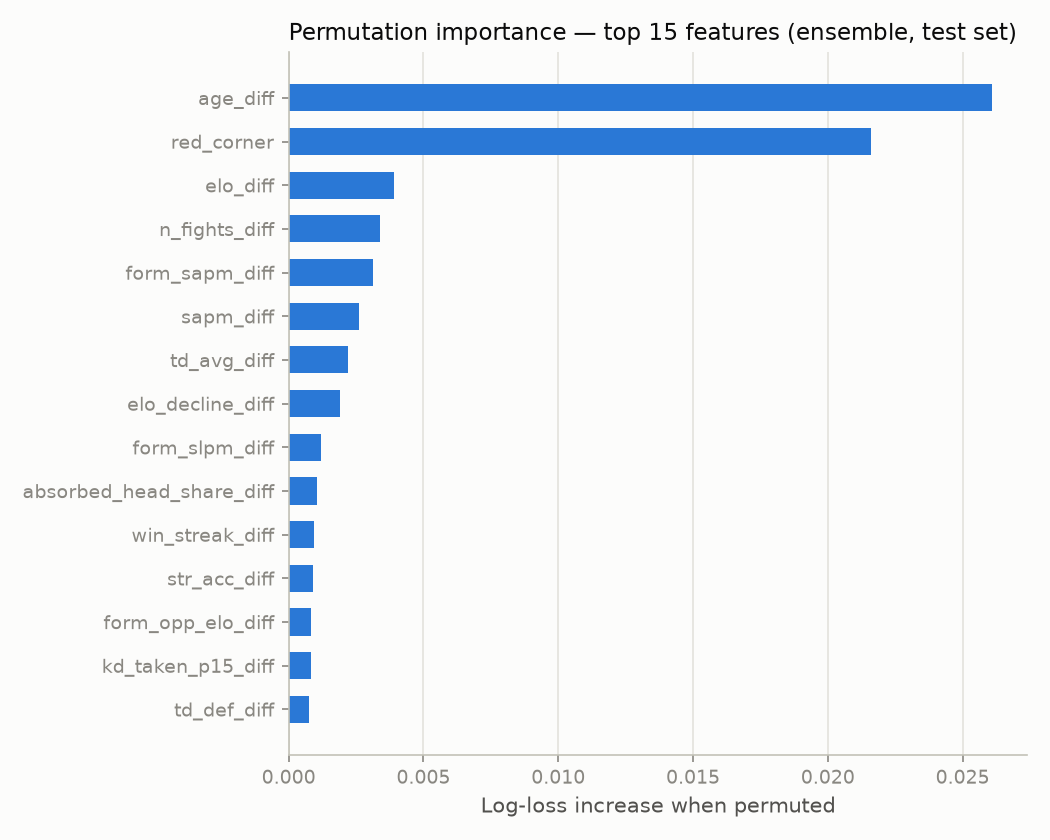
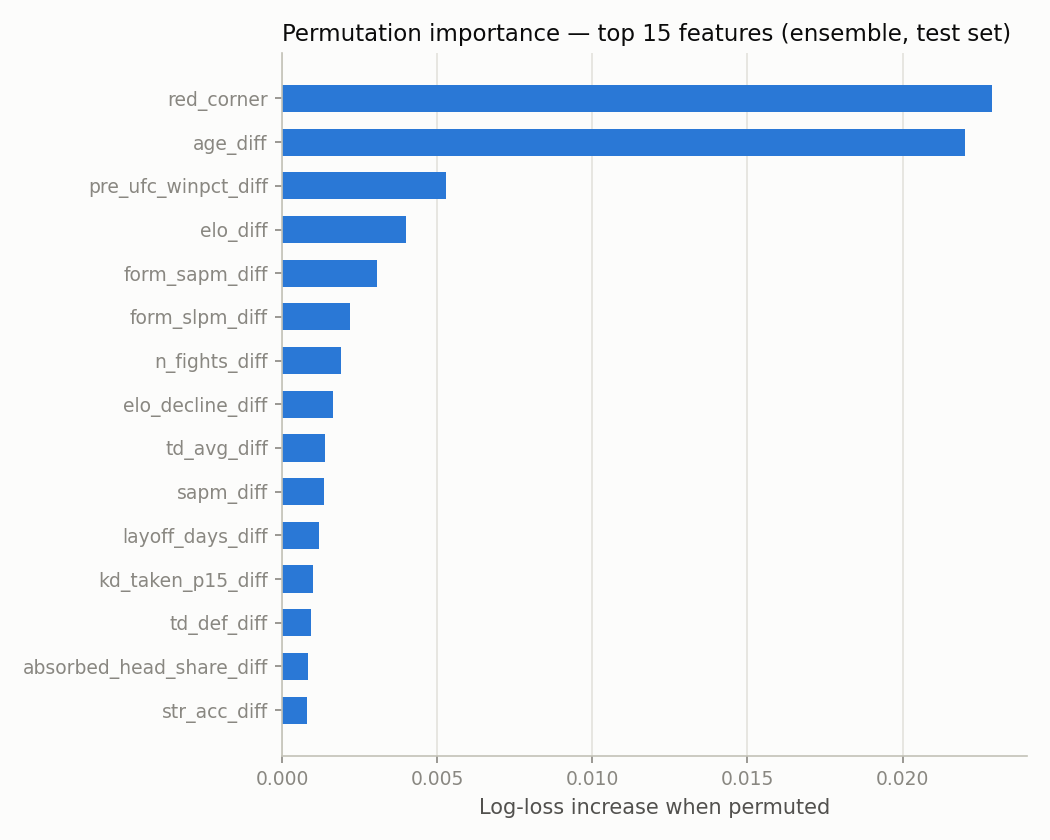
Phase 11: career loss-method features adopted; two experiments rejected
The model tracked how fighters WIN (finish rate, decision rate) but never
how they LOSE. Added career ko_loss_rate, sub_loss_rate, finished_rate and
a never_finished flag — whether a man has been stopped is the most direct
evidence for how his next fight ends. Controlled ablation: method log loss
1.620 -> 1.611, 6-way top-1 0.337 -> 0.346, distance Brier 0.2368 -> 0.2355.
Headline model now 0.644 acc / 0.631 logloss with 104 features.

Rejected with receipts: duration-conditioned counts (a fight-length
regression fed to the takedown model made it worse — the count model
already infers length) and a round-by-round finish model (lost to base
rates on all four classes; we can predict IF a fight ends early, not WHEN).

Claude-Session: https://claude.ai/code/session_01RMgLwosyU9fnVycvRvg6uX

diff --git a/train_report.py b/train_report.py
@@ -49,7 +49,8 @@ SNAP_FEATS = ["elo", "n_fights", "win_pct", "win_streak", "lose_streak", "slpm",
               "form_win", "form_slpm", "form_sapm", "form_td15",
               "form_finished", "form_was_finished", "avg_opp_elo", "form_opp_elo",
               "peak_elo", "elo_decline", "five_rd_fights", "weight_change",
-              "pre_ufc_wins", "pre_ufc_losses", "pre_ufc_fights", "pre_ufc_winpct"]
+              "pre_ufc_wins", "pre_ufc_losses", "pre_ufc_fights", "pre_ufc_winpct",
+              "ko_loss_rate", "sub_loss_rate", "finished_rate", "never_finished"]
 CONTEXT = ["title_bout", "women", "sched_rounds", "weight_lbs"]
 ANTISYM = ([f"{f}_diff" for f in SNAP_FEATS]
            + ["red_corner", "southpaw_vs_orthodox", "rank_adv", "ranked_diff"])
@@ -496,6 +497,23 @@ pre-stated hypothesis was that they help LOW-EXPERIENCE fighters, and on
 fights where either man has under 3 UFC bouts CV improved 0.6548 -> 0.6522
 (+0.0026, clearing the gate). Adopted on that basis; `pre_ufc_winpct_diff`
 is now the third most important feature in the model.
+
+Adopted (Phase 11): career loss-method features — how often a fighter has
+been knocked out, submitted, or taken to a decision, plus a never-finished
+flag. The model tracked how fighters WIN but never how they LOSE, and
+whether a man has been stopped before is the most direct evidence for how
+his next fight ends. Method log loss 1.620 -> 1.611, 6-way top-1 0.337 ->
+0.346, distance Brier 0.2368 -> 0.2355 in a controlled ablation.
+
+Rejected (Phase 11): duration-conditioned count props — a fight-duration
+regression (MAE 291s vs 319s baseline) fed as a feature to the takedown
+model made it WORSE (MAE 1.079 -> 1.091; over-0.5 Brier 0.2201 -> 0.2257),
+because the count model already infers fight length from the same features.
+Also rejected: a round-by-round finish model (which round a 3-round fight
+ends in, 4 classes). It lost to base rates on every class — R1 0.1954 vs
+0.1943, R2 0.1323 vs 0.1294, R3 0.0725 vs 0.0700, decision 0.2511 vs
+0.2499. The model can predict WHETHER a fight ends early; it cannot predict
+WHEN.
 
 Also rejected (Phase 9): Glicko-style ratings with uncertainty (glicko /
 glicko_rd features; CV 0.6551 vs 0.6542 baseline — Elo plus the trajectory

diff --git a/build_features.py b/build_features.py
@@ -222,6 +222,7 @@ def new_state():
         "g_r": 1500.0, "g_rd": 350.0,
         "elo": 1500.0, "peak_elo": 1500.0, "n": 0, "wins": 0, "losses": 0, "draws": 0,
         "win_streak": 0, "lose_streak": 0, "ko_wins": 0, "sub_wins": 0, "dec_wins": 0,
+        "ko_losses": 0, "sub_losses": 0, "dec_losses": 0,
         "sig_l": 0, "sig_a": 0, "opp_sig_l": 0, "opp_sig_a": 0,
         "td_l": 0, "td_a": 0, "opp_td_l": 0, "opp_td_a": 0,
         "kd": 0, "kd_taken": 0, "sub_att": 0, "ctrl": 0, "secs": 0,
@@ -299,6 +300,11 @@ def snapshot(s, date, ph, cur_weight, today_opp, div, pre=(0, 0)):
         "kd_taken_p15": s["kd_taken"] / p15 if p15 else np.nan,
         "ctrl_min_share": s["ctrl"] / s["secs"] if s["secs"] else np.nan,
         "finish_rate": (s["ko_wins"] + s["sub_wins"]) / s["wins"] if s["wins"] else np.nan,
+        # how he LOSES — chin and submission vulnerability over the whole career
+        "ko_loss_rate": s["ko_losses"] / n if n else np.nan,
+        "sub_loss_rate": s["sub_losses"] / n if n else np.nan,
+        "finished_rate": (s["ko_losses"] + s["sub_losses"]) / n if n else np.nan,
+        "never_finished": float(s["ko_losses"] + s["sub_losses"] == 0) if n else np.nan,
         "dec_win_rate": s["dec_wins"] / s["wins"] if s["wins"] else np.nan,
         "layoff_days": (date - s["last_date"]).days if s["last_date"] is not None else np.nan,
         "age": age, "height": ph.get("height", np.nan), "reach": ph.get("reach", np.nan),
@@ -374,6 +380,9 @@ def update_state(s, my, opp, date, result, method, secs, opp_elo_pre, sched5, cu
     elif result == 0:
         s["losses"] += 1
         s["lose_streak"] += 1; s["win_streak"] = 0
+        if "KO" in m: s["ko_losses"] += 1
+        elif "Submission" in m: s["sub_losses"] += 1
+        elif "Decision" in m: s["dec_losses"] += 1
     else:  # draw
         s["draws"] += 1
         s["win_streak"] = 0; s["lose_streak"] = 0

diff --git a/report.md b/report.md
@@ -3,29 +3,29 @@
 Generated by `train_report.py`. Seeds fixed (42); strict temporal validation.
 
 **Data:** 8252 UFC fights 2003-02-28 to 2026-08-01,
-96 features computed strictly as-of fight date by replaying career
+104 features computed strictly as-of fight date by replaying career
 histories (`build_features.py`): records, Elo (finish-weighted), per-minute
 striking/grappling rates, strike-target and position mixes, recent-form windows
 (last 3 fights), opponent quality (average opponent Elo), trajectory (peak-Elo
 decline, layoffs, weight-class changes), rankings, and physical attributes.
 
 **Split:** train ≤ 2023-06-03 (6650 fights), test after
-(1602 fights). LightGBM (best (31, 0.06, 20), cv 0.6542) and XGBoost
-(best (5, 0.03, 5), cv 0.6573) tuned with 4-fold expanding-window CV inside
+(1602 fights). LightGBM (best (15, 0.03, 20), cv 0.6466) and XGBoost
+(best (3, 0.03, 5), cv 0.6499) tuned with 4-fold expanding-window CV inside
 the train period. The stacking combiner, isotonic calibrator, and market blend
 were all fitted on out-of-fold CV predictions only. The LightGBM component
 is a 5-seed bag (adopted Phase 9: CV logloss 0.6571 -> 0.6535). Stack weights
-(LGB, XGB, logistic): [0.61, 0.13, 0.18].
+(LGB, XGB, logistic): [0.56, 0.28, 0.03].
 
 ## Model comparison — full test set (1602 fights)
 
 | Predictor | n | Accuracy | Log loss | Brier | ECE |
 |---|---|---|---|---|---|
-| Stacked ensemble (LGB+XGB+logistic) | 1602 | 0.629 | 0.642 | 0.225 | 0.026 |
-| Ensemble + isotonic | 1602 | 0.622 | 0.651 | 0.227 | 0.041 |
-| LightGBM | 1602 | 0.627 | 0.643 | 0.226 | 0.033 |
-| XGBoost | 1602 | 0.625 | 0.646 | 0.227 | 0.033 |
-| Logistic regression (full features) | 1602 | 0.614 | 0.648 | 0.229 | 0.052 |
+| Stacked ensemble (LGB+XGB+logistic) | 1602 | 0.635 | 0.640 | 0.224 | 0.023 |
+| Ensemble + isotonic | 1602 | 0.636 | 0.641 | 0.225 | 0.017 |
+| LightGBM | 1602 | 0.633 | 0.640 | 0.224 | 0.020 |
+| XGBoost | 1602 | 0.641 | 0.640 | 0.225 | 0.032 |
+| Logistic regression (full features) | 1602 | 0.615 | 0.647 | 0.228 | 0.051 |
 | Elo only (logistic) | 1602 | 0.568 | 0.674 | 0.241 | 0.050 |
 
 ## The real benchmark — vig-removed closing odds (1182 test fights with odds)
@@ -33,16 +33,16 @@ is a 5-seed bag (adopted Phase 9: CV logloss 0.6571 -> 0.6535). Stack weights
 | Predictor | n | Accuracy | Log loss | Brier | ECE |
 |---|---|---|---|---|---|
 | Market (no-vig closing odds) | 1182 | 0.702 | 0.582 | 0.199 | 0.033 |
-| Stacked ensemble | 1182 | 0.640 | 0.631 | 0.220 | 0.041 |
-| Blend: market + model | 1182 | 0.703 | 0.577 | 0.197 | 0.024 | logit blend, model coef=+0.291
+| Stacked ensemble | 1182 | 0.644 | 0.631 | 0.220 | 0.030 |
+| Blend: market + model | 1182 | 0.706 | 0.578 | 0.197 | 0.023 | logit blend, model coef=+0.357
 
 **Does the model beat the market?** No. The market's log loss (0.582) beats the model's (0.631).
 
-**Does the model add information beyond the market?** Yes —
-blending model with market gives log loss 0.577 vs 0.582 for the
+**Does the model add information beyond the market?** Not conclusively —
+blending model with market gives log loss 0.578 vs 0.582 for the
 market alone. Paired bootstrap on the log-loss difference (market − blend,
-10,000 resamples): 95% CI [+0.0008, +0.0096], blend better in
-99.0% of resamples.
+10,000 resamples): 95% CI [-0.0004, +0.0093], blend better in
+96.6% of resamples.
 
 This is the expected result for public pre-fight data: closing odds aggregate
 sharp bettors' information (injuries, camp changes, weight-cut issues, insider
@@ -57,12 +57,12 @@ the training-set class frequencies:
 
 | Target | Model | Baseline |
 |---|---|---|
-| 6-way outcome log loss | 1.595 | 1.712 (freq) — per-class isotonic REJECTED (2.050) |
-| 6-way outcome top-1 accuracy | 0.340 | 0.242 |
-| Goes the distance — Brier (dedicated model) | 0.236 | 0.234 (6-way-derived) |
-| Goes the distance — accuracy | 0.608 | 0.503 (majority class) |
-| Under 2.5 rounds (3R fights) — Brier | 0.235 | 0.248 (predict base rate) |
-| Total takedowns — MAE | 1.68 | 1.81 (train mean) |
+| 6-way outcome log loss | 1.584 | 1.712 (freq) — per-class isotonic REJECTED (2.134) |
+| 6-way outcome top-1 accuracy | 0.352 | 0.242 |
+| Goes the distance — Brier (dedicated model) | 0.236 | 0.233 (6-way-derived) |
+| Goes the distance — accuracy | 0.604 | 0.503 (majority class) |
+| Under 2.5 rounds (3R fights) — Brier | 0.237 | 0.248 (predict base rate) |
+| Total takedowns — MAE | 1.67 | 1.81 (train mean) |
 
 Method-of-victory and distance predictions beat the frequency baselines but,
 as with the winner model, should be assumed weaker than prop-market prices —
@@ -72,7 +72,7 @@ and prop markets carry roughly twice the vig of moneylines.
 
 ![Reliability diagram](plots/reliability.png)
 
-ECE (10 equal-count bins): model 0.041, market 0.033.
+ECE (10 equal-count bins): model 0.030, market 0.033.
 Isotonic calibration is reported for completeness; the raw ensemble is already
 close to calibrated.
 
@@ -83,16 +83,16 @@ close to calibrated.
 Top 10 by permutation importance (mean log-loss increase over 3 shuffles,
 through the full ensemble):
 
-- `age_diff`: +0.0261
-- `red_corner`: +0.0216
-- `elo_diff`: +0.0039
-- `n_fights_diff`: +0.0034
-- `form_sapm_diff`: +0.0031
-- `sapm_diff`: +0.0026
-- `td_avg_diff`: +0.0022
-- `elo_decline_diff`: +0.0019
-- `form_slpm_diff`: +0.0012
-- `absorbed_head_share_diff`: +0.0010
+- `red_corner`: +0.0229
+- `age_diff`: +0.0220
+- `pre_ufc_winpct_diff`: +0.0053
+- `elo_diff`: +0.0040
+- `form_sapm_diff`: +0.0030
+- `form_slpm_diff`: +0.0022
+- `n_fights_diff`: +0.0019
+- `elo_decline_diff`: +0.0016
+- `td_avg_diff`: +0.0014
+- `sapm_diff`: +0.0014
 
 ## Negative results (tried and rejected)
 
